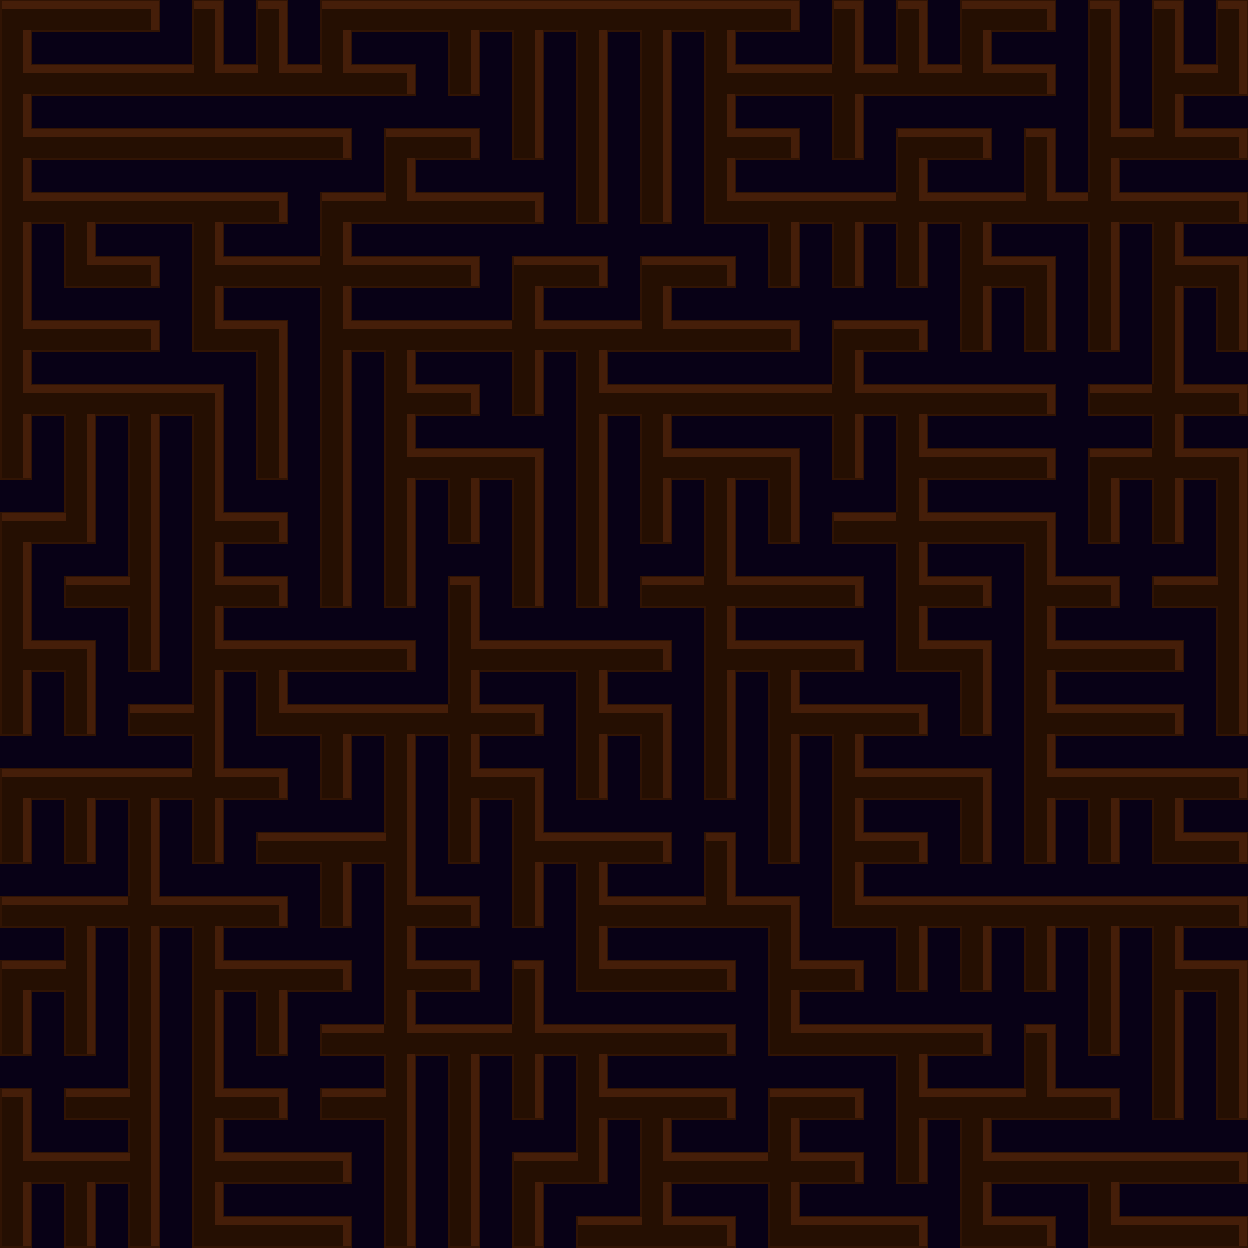
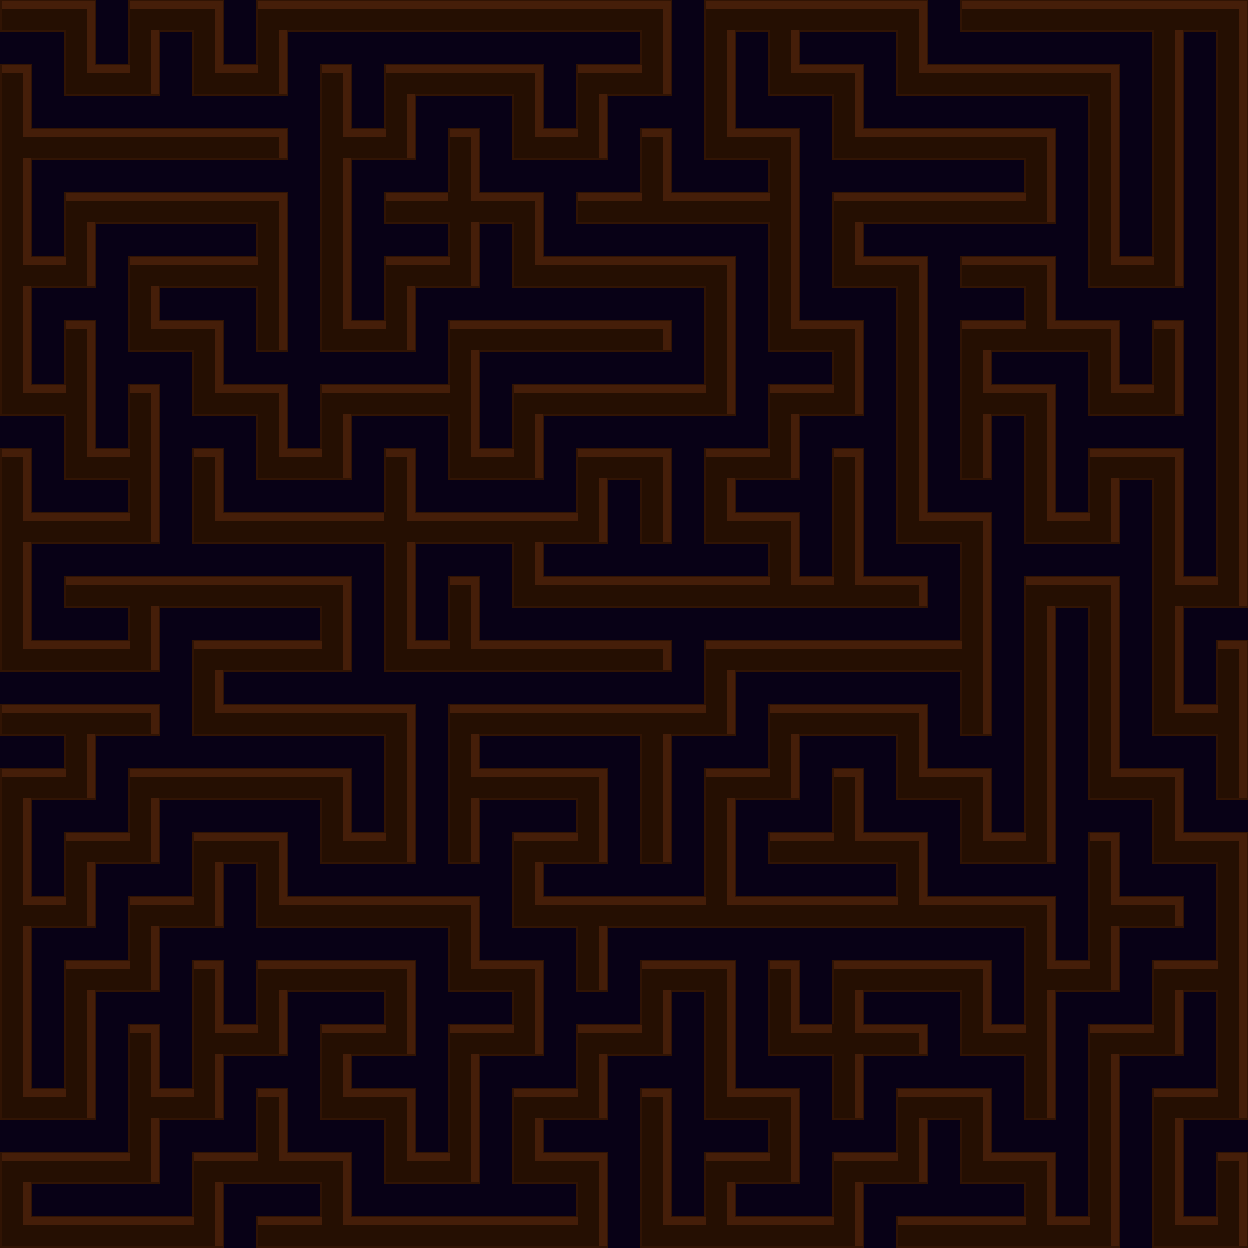
calculating where to place joining walls only from the boolean walls list

diff --git a/webapp/app/static/js/app.js b/webapp/app/static/js/app.js
@@ -72,7 +72,7 @@ const placeCharacter = function () {
     // var positionCorrector = posCorrectDict[mapSize];
     // console.log(mapSize, positionCorrector)
 
-    var positionCorrector = 123
+    var positionCorrector = 132
     
     // work out which tile in the spanning tree the player is in
     var currentTileX = roundTileCoord(((x) / positionCorrector) + 1);

diff --git a/webapp/app/drawMaze.py b/webapp/app/drawMaze.py
@@ -1,6 +1,8 @@
 from PIL import Image
 from pathlib import Path
 
+
+# [top, bottom, left, right]
 tileNames = {'[0, 0, 0, 0]': 'no-walls.png', '[0, 0, 0, 1]': 'right-wall.png', '[0, 0, 1, 0]': 'left-wall.png', '[0, 0, 1, 1]': 'left-right-wall.png',
              '[0, 1, 0, 0]': 'bottom-wall.png', '[0, 1, 0, 1]': 'bottom-right-corner.png', '[0, 1, 1, 0]': 'bottom-left-corner.png', '[0, 1, 1, 1]': 'bottom-dead.png', '[1, 0, 0, 0]': 'top-wall.png',
              '[1, 0, 0, 1]': 'top-right-corner.png', '[1, 0, 1, 0]': 'top-left-corner.png', '[1, 0, 1, 1]': 'top-dead.png', '[1, 1, 0, 0]': 'top-bottom-wall.png', '[1, 1, 0, 1]': 'right-dead.png',
@@ -32,23 +34,46 @@ def mazeImgGen(SIDELEN, spanning_tree):
     # tiles are 32x32
 
     joinNodesDict = {}
-
+    
     for strNode in spanning_tree:
+
+        # turning dictionary keys (stored as strings) into  lists
         separated = strNode.split(',')
         node = [getIntFromString(separated[0]), getIntFromString(separated[1])]
-        adjNodes = spanning_tree[strNode][0]
+
+        # getting the list of adjacent nodes from the dictionary
+        adjNodes = []
+        for index, wall in enumerate(spanning_tree[strNode][1]):
+            if not wall:
+                if index == 0:
+                    adjNodes.append([node[0], node[1]-1])
+                elif index == 1:
+                    adjNodes.append([node[0], node[1]+1])
+                elif index == 2:
+                    adjNodes.append([node[0]-1, node[1]])
+                elif index == 3:
+                    adjNodes.append([node[0]+1, node[1]])
+                
+        
+        # pasting the correct image (correspoding with the walls list) onto the main background image
         tile = mazePath / tileNames[str(spanning_tree[strNode][1])]
         tileImg = Image.open(tile)
         img.paste(tileImg, ((node[0]-1)*64, (node[1]-1)*64))
+
+        
         for adjNode in adjNodes:
+            # figuring out where to place adjacent corridors based
             join_x = ((adjNode[0] - node[0])/2) + node[0]
             join_y = ((adjNode[1] - node[1])/2) + node[1]
+
+            # pasting corridors joinging the nodes, and saving their data to the dictionary
             if join_y-int(join_y) != 0:
                 tile = mazePath / 'left-right-wall.png'
                 joinNodesDict[str([int(join_x), join_y])] = [[], [0, 0, 1, 1]]
             elif join_x-int(join_x) != 0:
                 tile = mazePath / 'top-bottom-wall.png'
                 joinNodesDict[str([join_x, int(join_y)])] = [[], [1, 1, 0, 0]]
+            
             tileImg = Image.open(tile)
             img.paste(tileImg, (int((join_x-1)*64), int((join_y-1)*64)))
 

diff --git a/webapp/app/generateMaze.py b/webapp/app/generateMaze.py
@@ -79,8 +79,6 @@ def primms(maxX, maxY):
             nodes.append([x, y])
     save_nodes = nodes.copy()
 
-    print(nodes)
-
 
     adjacent_nodes = ((-1, 0), (1, 0), (0, 1), (0, -1))
 
@@ -97,7 +95,6 @@ def primms(maxX, maxY):
 
         
         current_node = next_node
-        print(current_node)
         
         # print(current_node)
         try:
@@ -129,6 +126,8 @@ def primms(maxX, maxY):
 
     return adjacencyListGen(spanning_tree, save_nodes)
 
+
+# TODO comments in here!
 def adjacencyListGen(spanning_tree, nodes):
     adjacencyDict = {}
     for node in nodes:
@@ -143,6 +142,7 @@ def adjacencyListGen(spanning_tree, nodes):
                 continue
             adjacentNodes.append(adjNode)
             # top, bottom, left, right
+            # wall = 1
             xDiff = node[0] - adjNode[0]
             yDiff = node[1] - adjNode[1]
             if yDiff > 0:

diff --git a/webapp/app/views.py b/webapp/app/views.py
@@ -10,6 +10,6 @@ def index():
 @app.route('/play')
 def about():
     map_size = 20
-    spanning_tree = generateMaze.primms(map_size, map_size)
+    spanning_tree = generateMaze.recursiveBacktracking(map_size, map_size)
     spanning_tree = drawMaze.mazeImgGen(map_size, spanning_tree)
     return render_template('public/play.html', spanningTree=spanning_tree, mapSize=map_size)

diff --git a/other-files/recursiveBacktrckingInC.c b/other-files/recursiveBacktrckingInC.c
@@ -1,0 +1,6 @@
+<stdio.h>
+
+void main(){
+
+    return 0;
+}
